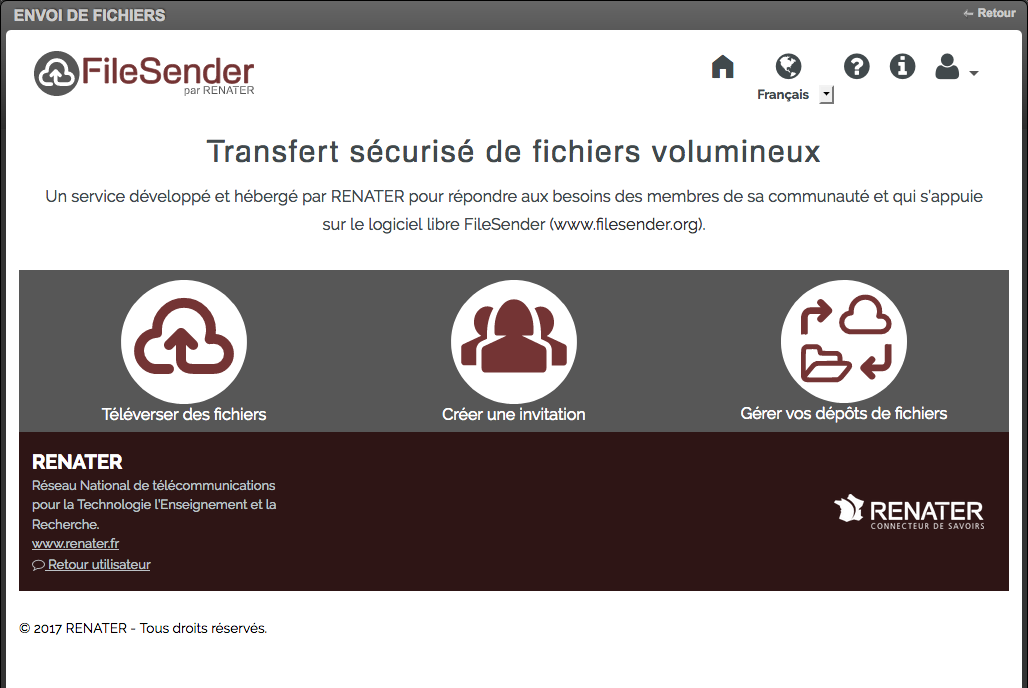
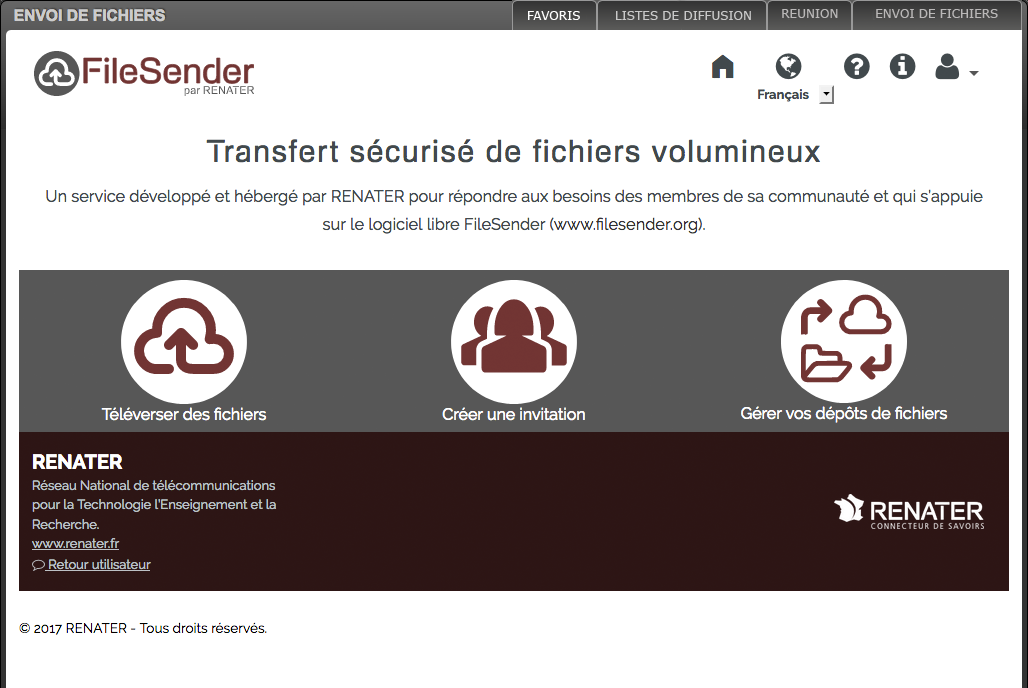
Sageau's changes

Changed region(s): [[0.4981, 0.0, 0.9961, 0.0305]]

diff --git a/public_html/profil_vide/applications_envoi_fichiers.html b/public_html/profil_vide/applications_envoi_fichiers.html
@@ -32,7 +32,7 @@ and open the template in the editor.
             <area shape="rect" coords="1101,424,1271,448" href="se_former.html" alt="moodle"/>
             <area shape="rect" coords="1101,451,1271,475" href="applications.html" alt="favoris"/>
         </map>
-        <img src="images/applications-favoris.png" alt="template" style="display:block;position:absolute;left:35px;top:215px;width:1028px;height:139px;" usemap="#favoristmp">
+        <img src="images/application-envoi_de_fichier.png" alt="template" style="display:block;position:absolute;left:35px;top:215px;width:1028px;height:688px;" usemap="#favoristmp">
          <map name="favoristmp">
             <area shape="rect" coords="510,0,595,25" href="applications.html" alt="Favoris"/>
             <area shape="rect" coords="765,0,850,25" href="applications_reunion.html" alt="Reunion"/>

diff --git a/public_html/profil_vide/applications_listes_diffusion.html b/public_html/profil_vide/applications_listes_diffusion.html
@@ -32,7 +32,7 @@ and open the template in the editor.
             <area shape="rect" coords="1101,424,1271,448" href="se_former.html" alt="moodle"/>
             <area shape="rect" coords="1101,451,1271,475" href="applications.html" alt="favoris"/>
         </map>
-        <img src="images/applications-favoris.png" alt="template" style="display:block;position:absolute;left:35px;top:215px;width:1028px;height:139px;" usemap="#favoristmp">
+        <img src="images/applications-listes_de_diff.png" alt="template" style="display:block;position:absolute;left:35px;top:215px;width:1028px;height:287px;" usemap="#favoristmp">
          <map name="favoristmp">
             <area shape="rect" coords="510,0,595,25" href="applications.html" alt="Favoris"/>
             <area shape="rect" coords="765,0,850,25" href="applications_reunion.html" alt="Reunion"/>

diff --git a/public_html/profil_vide/applications_reunion.html b/public_html/profil_vide/applications_reunion.html
@@ -32,7 +32,7 @@ and open the template in the editor.
             <area shape="rect" coords="1101,424,1271,448" href="se_former.html" alt="moodle"/>
             <area shape="rect" coords="1101,451,1271,475" href="applications.html" alt="favoris"/>
         </map>
-        <img src="images/applications-favoris.png" alt="template" style="display:block;position:absolute;left:35px;top:215px;width:1028px;height:139px;" usemap="#favoristmp">
+        <img src="images/application-reunion1.png" alt="template" style="display:block;position:absolute;left:35px;top:215px;width:1028px;height:694px;" usemap="#favoristmp">
          <map name="favoristmp">
             <area shape="rect" coords="510,0,595,25" href="applications.html" alt="Favoris"/>
             <area shape="rect" coords="765,0,850,25" href="applications_reunion.html" alt="Reunion"/>
